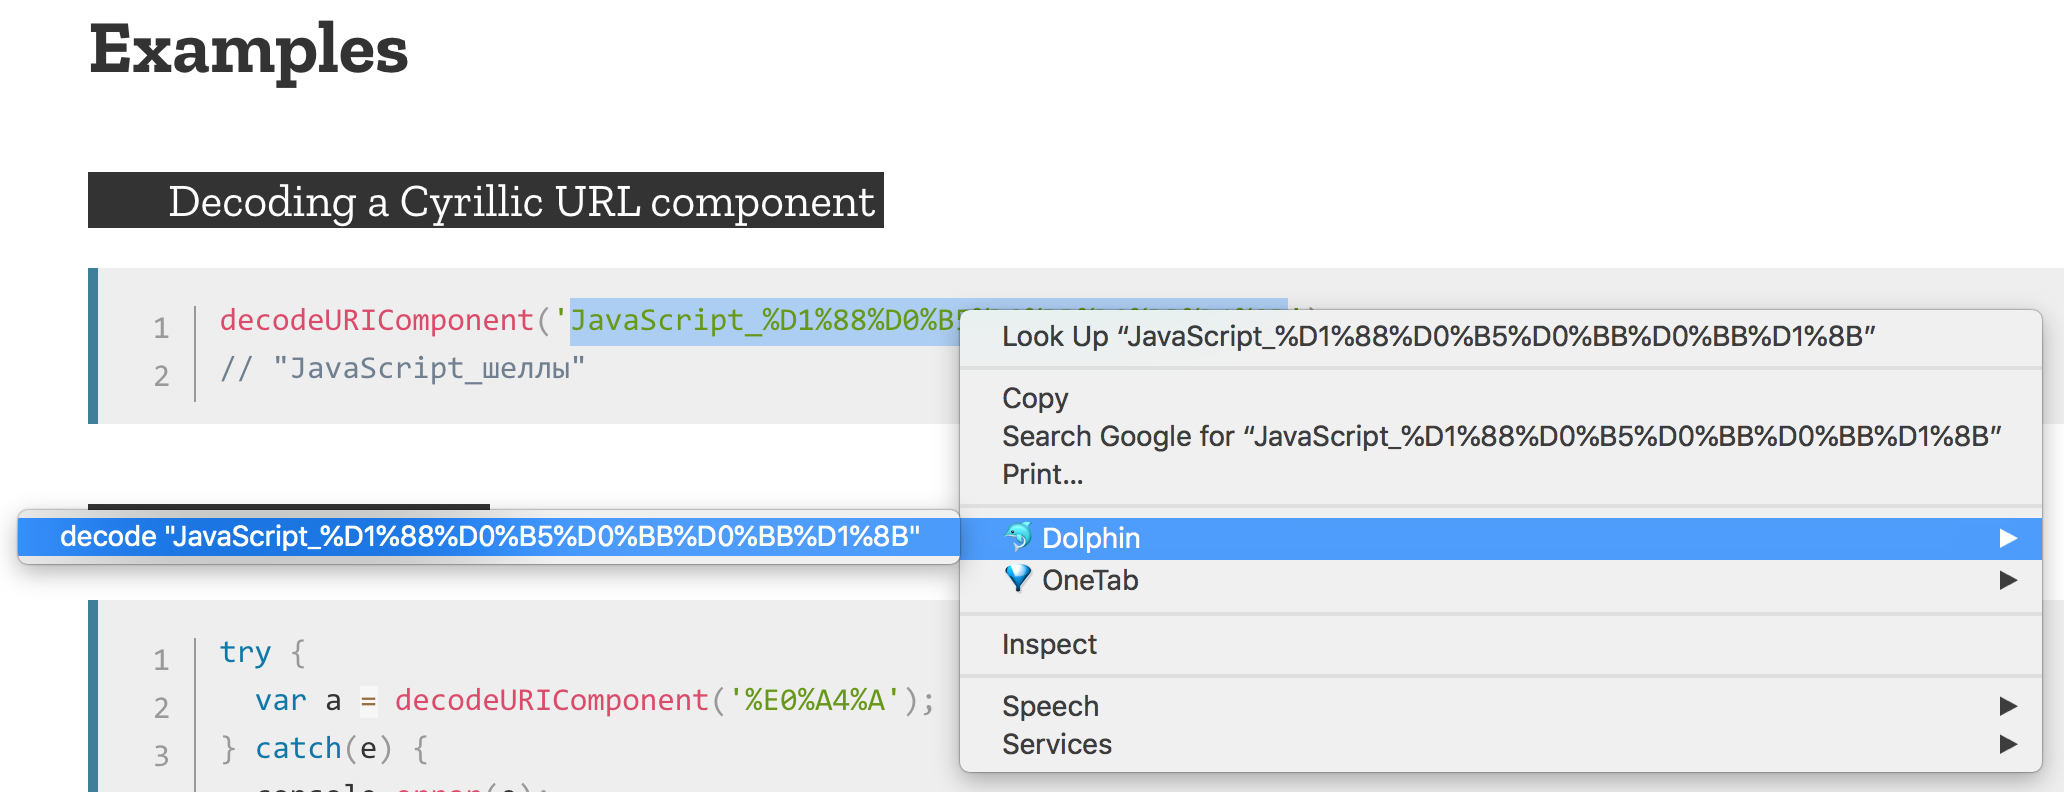
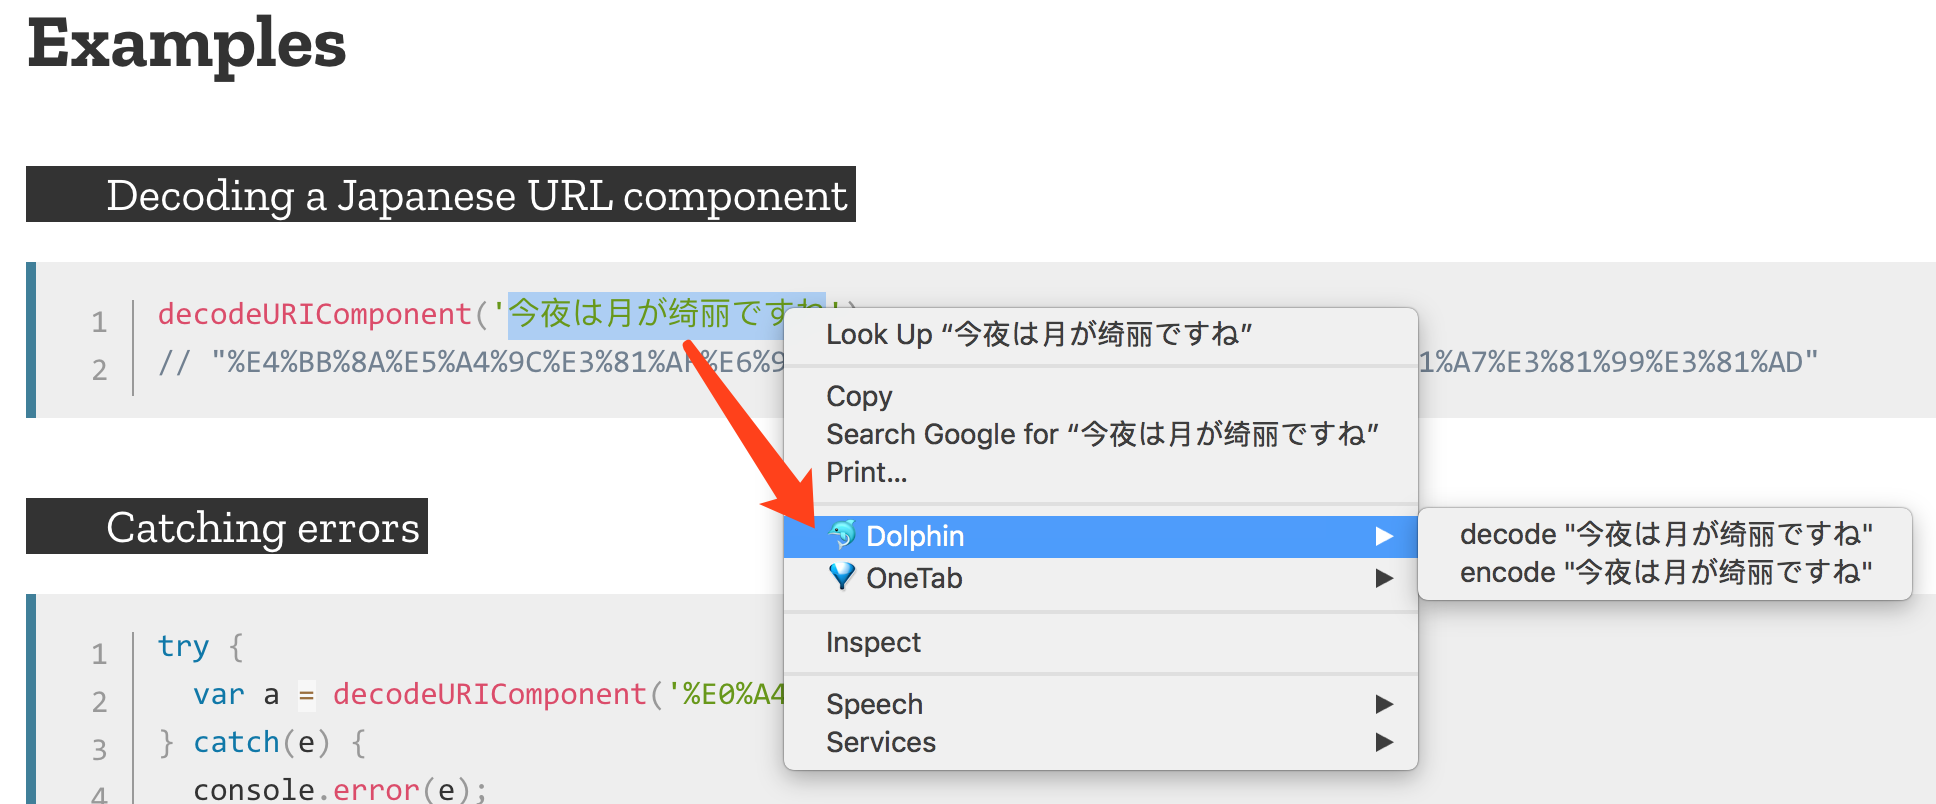
docs: add screenshots and update README

diff --git a/README.md b/README.md
@@ -1,7 +1,7 @@
 # Dolphin
 
 <p align="center">
-  <img src="https://github.com/legend80s/dolphin/blob/master/src/dolphin.png?raw=true" alt="dolphin logo" >
+  <img src="https://raw.githubusercontent.com/legend80s/dolphin/master/src/dolphin.png" alt="dolphin logo">
 </p>
 
 #### **<p align="center" style="color: #cb3837;">Auto Text Decoder. A niche Chrome extension just for decoding.</p>**
@@ -10,31 +10,30 @@
 
 Apply `decodeURIComponent` to all the encoded content in the page.
 
-The decoded content will be highlighted by surrounding it with a pair of 🐬s. 
+The decoded content will be highlighted by surrounding it with a pair of 🐬s.
 
 ## Install
 
-By chrome webstore.
+Hosted by github click to download.
 
 ## Use
 
 ### Auto decode
 
-There are two decode result modes, overwrite mode (the default one) and append mode.
+There are two decode result modes, **overwrite mode** (the default one) and **append mode**. Both translate inlinely.
 
-Or you can switch off the intrusive modes in the options page by setting `disabled: true` and decode by menu.
+Or you can switch off the inlinely or somewhat intrusive modes in the options page by setting `disabled: true` and decode by menu.
 
+![options.png](https://raw.githubusercontent.com/legend80s/dolphin/master/options.png)
+
+<p align="center">The modes and which websites to decode is configurable in options page.</p>
 #### Overwrite Mode
 
-![overwrite-mode.png](https://github.com/legend80s/dolphin/blob/master/overwrite-mode.png?raw=true)
+![overwrite-mode.png](https://raw.githubusercontent.com/legend80s/dolphin/master/overwrite-mode.png)
 
 #### Append Mode
 
-![append-mode.png](https://github.com/legend80s/dolphin/blob/master/append-mode.png?raw=true)
-
-The modes and websites to decode can be configured in options page.
-
-![options.png](https://github.com/legend80s/dolphin/blob/master/options.png?raw=true)
+![append-mode.png](https://raw.githubusercontent.com/legend80s/dolphin/master/append-mode.png)
 
 ### Decode By Menu
 
@@ -42,8 +41,12 @@ The modes and websites to decode can be configured in options page.
 
 2. Click **🐬 Dolphin** in the menu.
 
-    ![invoke-context-menu.png](https://github.com/legend80s/dolphin/blob/master/invoke-context-menu.png?raw=true)
+    ![invoke-context-menu.png](https://raw.githubusercontent.com/legend80s/dolphin/master/invoke-context-menu.png)
 
-3. And the decoded content will reveal itself in the alert.
+3. And the translated content will reveal itself in the alert.
 
-    ![context-menu.png](https://github.com/legend80s/dolphin/blob/master/context-menu.png?raw=true)
+    ![context-menu-decode-result.png](https://raw.githubusercontent.com/legend80s/dolphin/master/context-menu-decode-result.png)
+    <p align="center">Decode</p>
+
+    ![context-menu-encode-result.png](https://raw.githubusercontent.com/legend80s/dolphin/master/context-menu-encode-result.png)
+    <p align="center">Encode</p>
